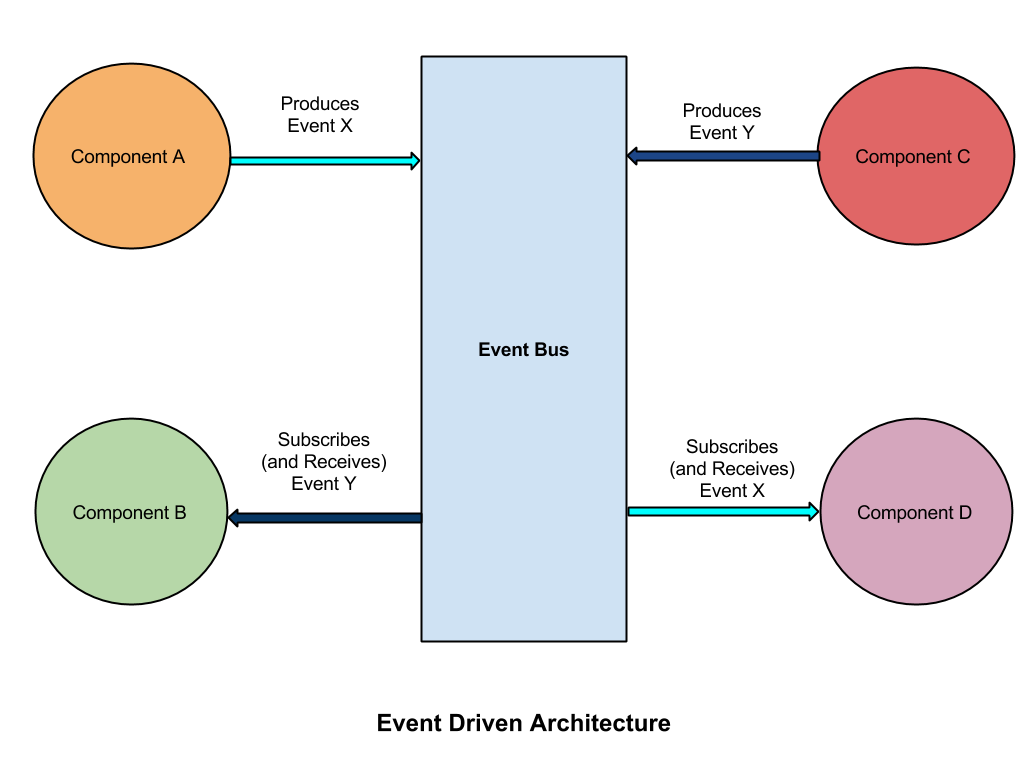
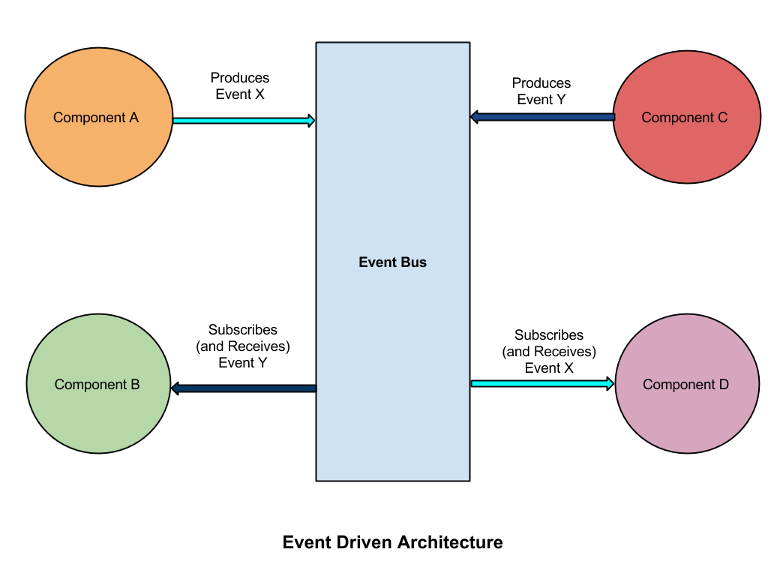
Post Edit

diff --git a/public/css/hyde.css b/public/css/hyde.css
@@ -128,7 +128,7 @@ a.sidebar-nav-item:focus {
 
 @media (min-width: 48rem) {
   .content {
-    max-width: 38rem;
+    max-width: 45rem;
     margin-left: 20rem;
     margin-right: 2rem;
   }

diff --git a/_posts/2015-07-16-event-driven-android.md b/_posts/2015-07-16-event-driven-android.md
@@ -2,15 +2,13 @@
 layout: post
 title: Event Driven Android
 author: Oyewale Oyediran
-feature-image: imageng.jpg
+feature-image: event-driven-architecture.png
 tags:
-- social
-- google-cloud
-- gcdc
-- imageing
-- image-processing
-- javascript
-- appengine
+- android
+- otto
+- event-driven
+- architecture
+- dev
 ---
 
 Communication between various components in the Android framework has been one of the major issues facing Android application development. A lot of work-arounds (more like hacks) have been used to solve some of this issues, many of which increases code complexity as the project expands and also leads to grossly inefficient use of the framework.
@@ -99,7 +97,7 @@ public class MainActivity extends AppCompatActivity {
 
 The event-driven paradigm allows for high decoupling between various application components. Example includes Activity-Fragment, Service-Activity communication. The example code implements a simple Service-Activity communication. 
 
-The full source code of the example is available on [Github]. 
+The full source code of the example is available on [Github]. If you have got questions, contributions, corrections, please leave a comment below.
 
 
 
